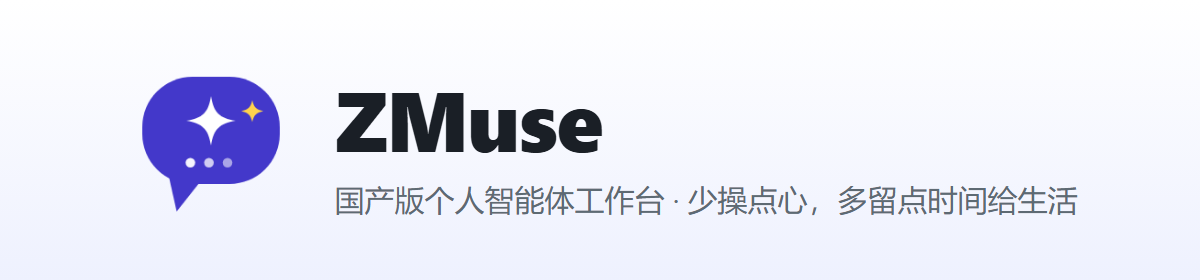
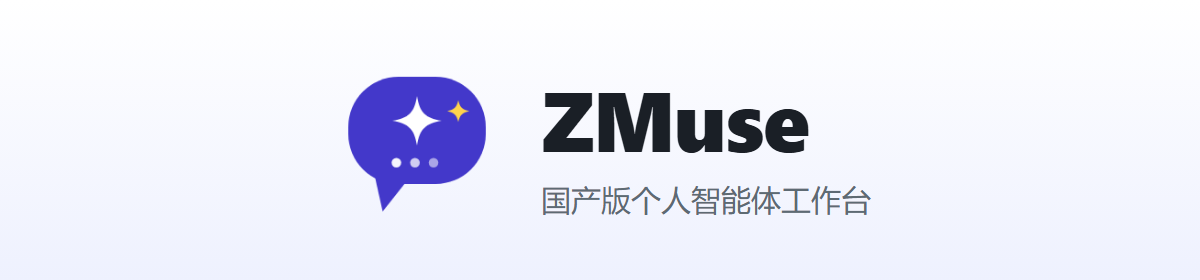
brand: 标题精简——窗口标题与欢迎语统一为 ZMuse，横幅去标语

Changed region(s): [[0.2775, 0.2571, 0.8942, 0.7714], [0.0925, 0.2571, 0.2467, 0.7429]]

diff --git a/apps/mobile/src/chat.tsx b/apps/mobile/src/chat.tsx
@@ -378,7 +378,7 @@ export function ChatScreen({
                 maxWidth: 350,
               }}
             >
-              少操点心，多留点时间给生活。
+              欢迎使用 ZMuse
             </Text>
             <Text style={[s.muted, { maxWidth: 320, textAlign: "center", lineHeight: 23 }]}>
               说出你的想法：我来做计划、操作应用、用我的电脑帮你把事情办成。
